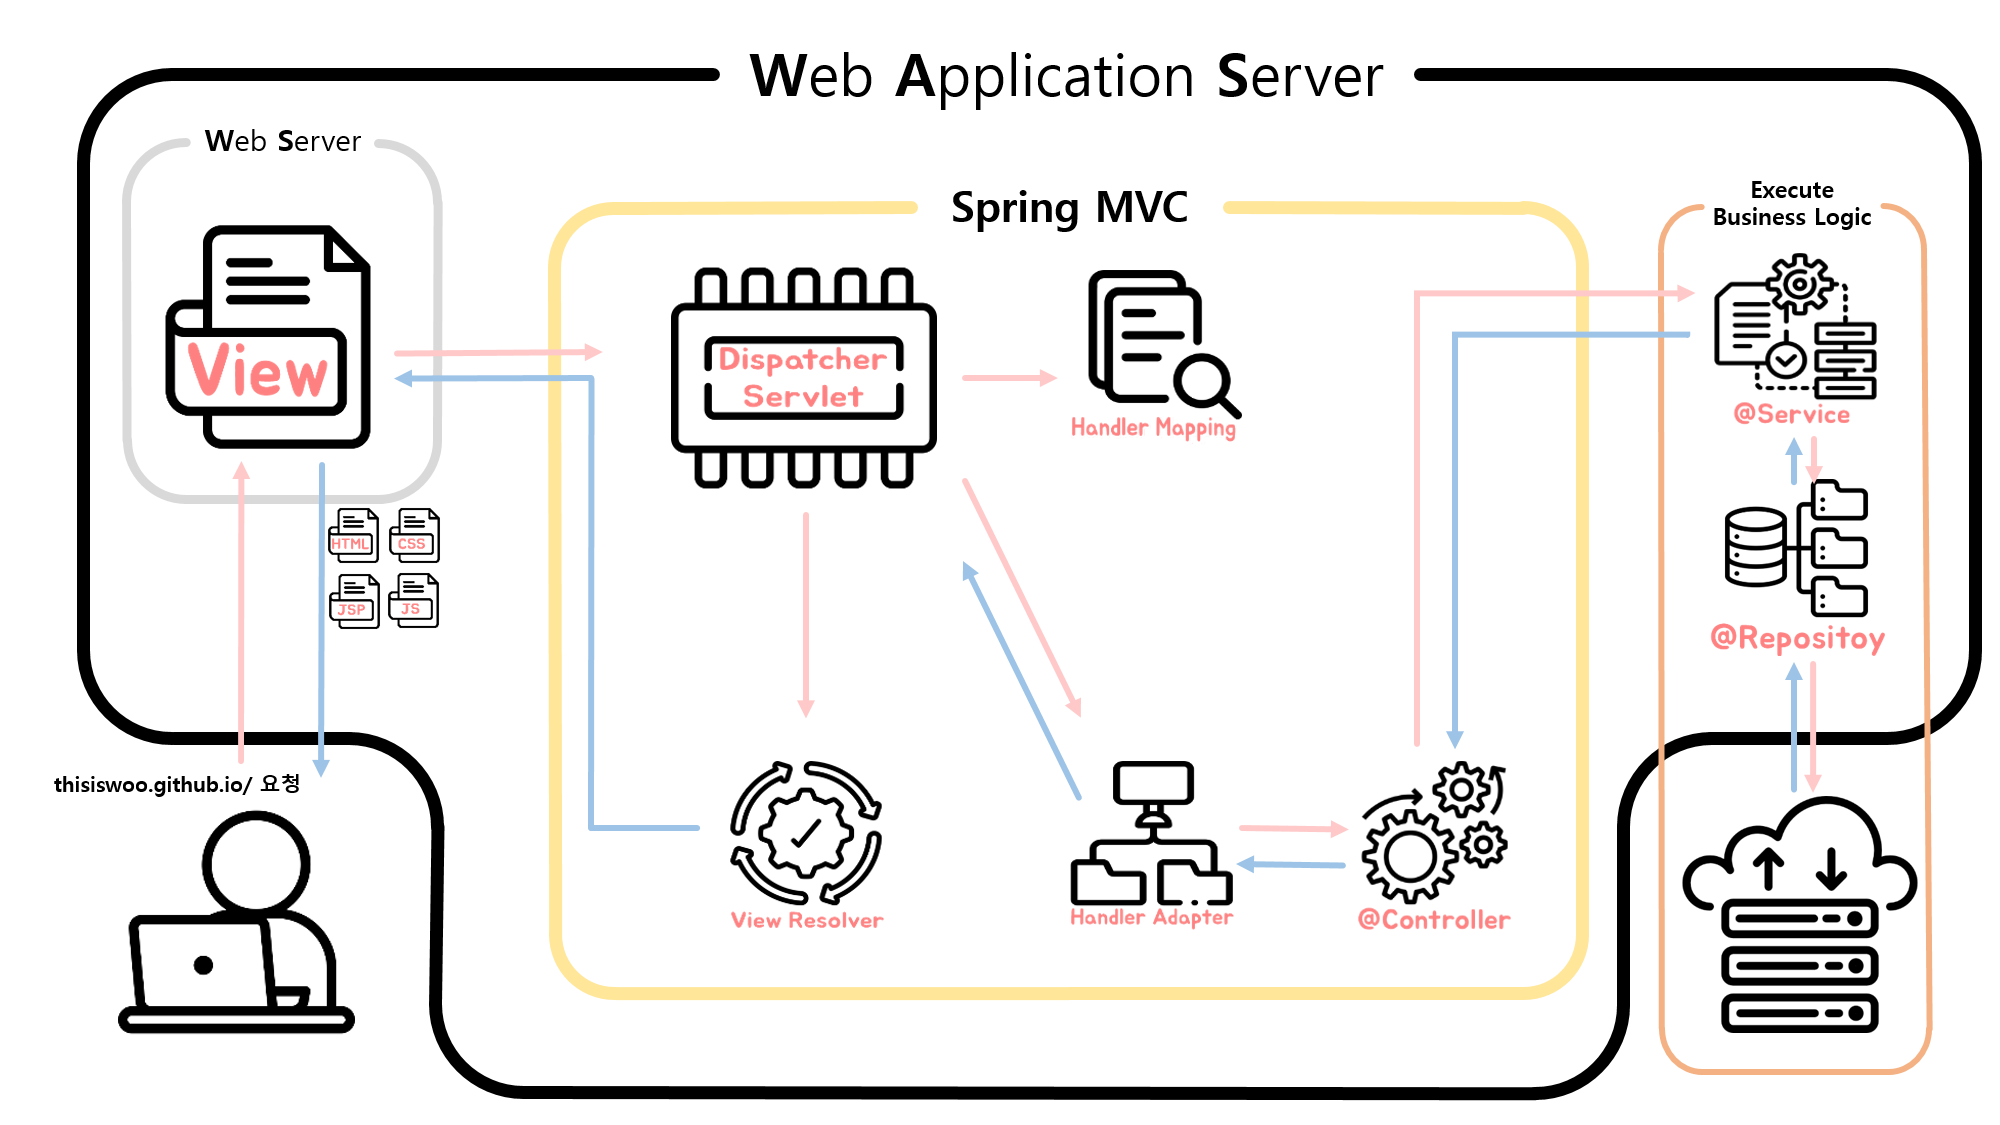
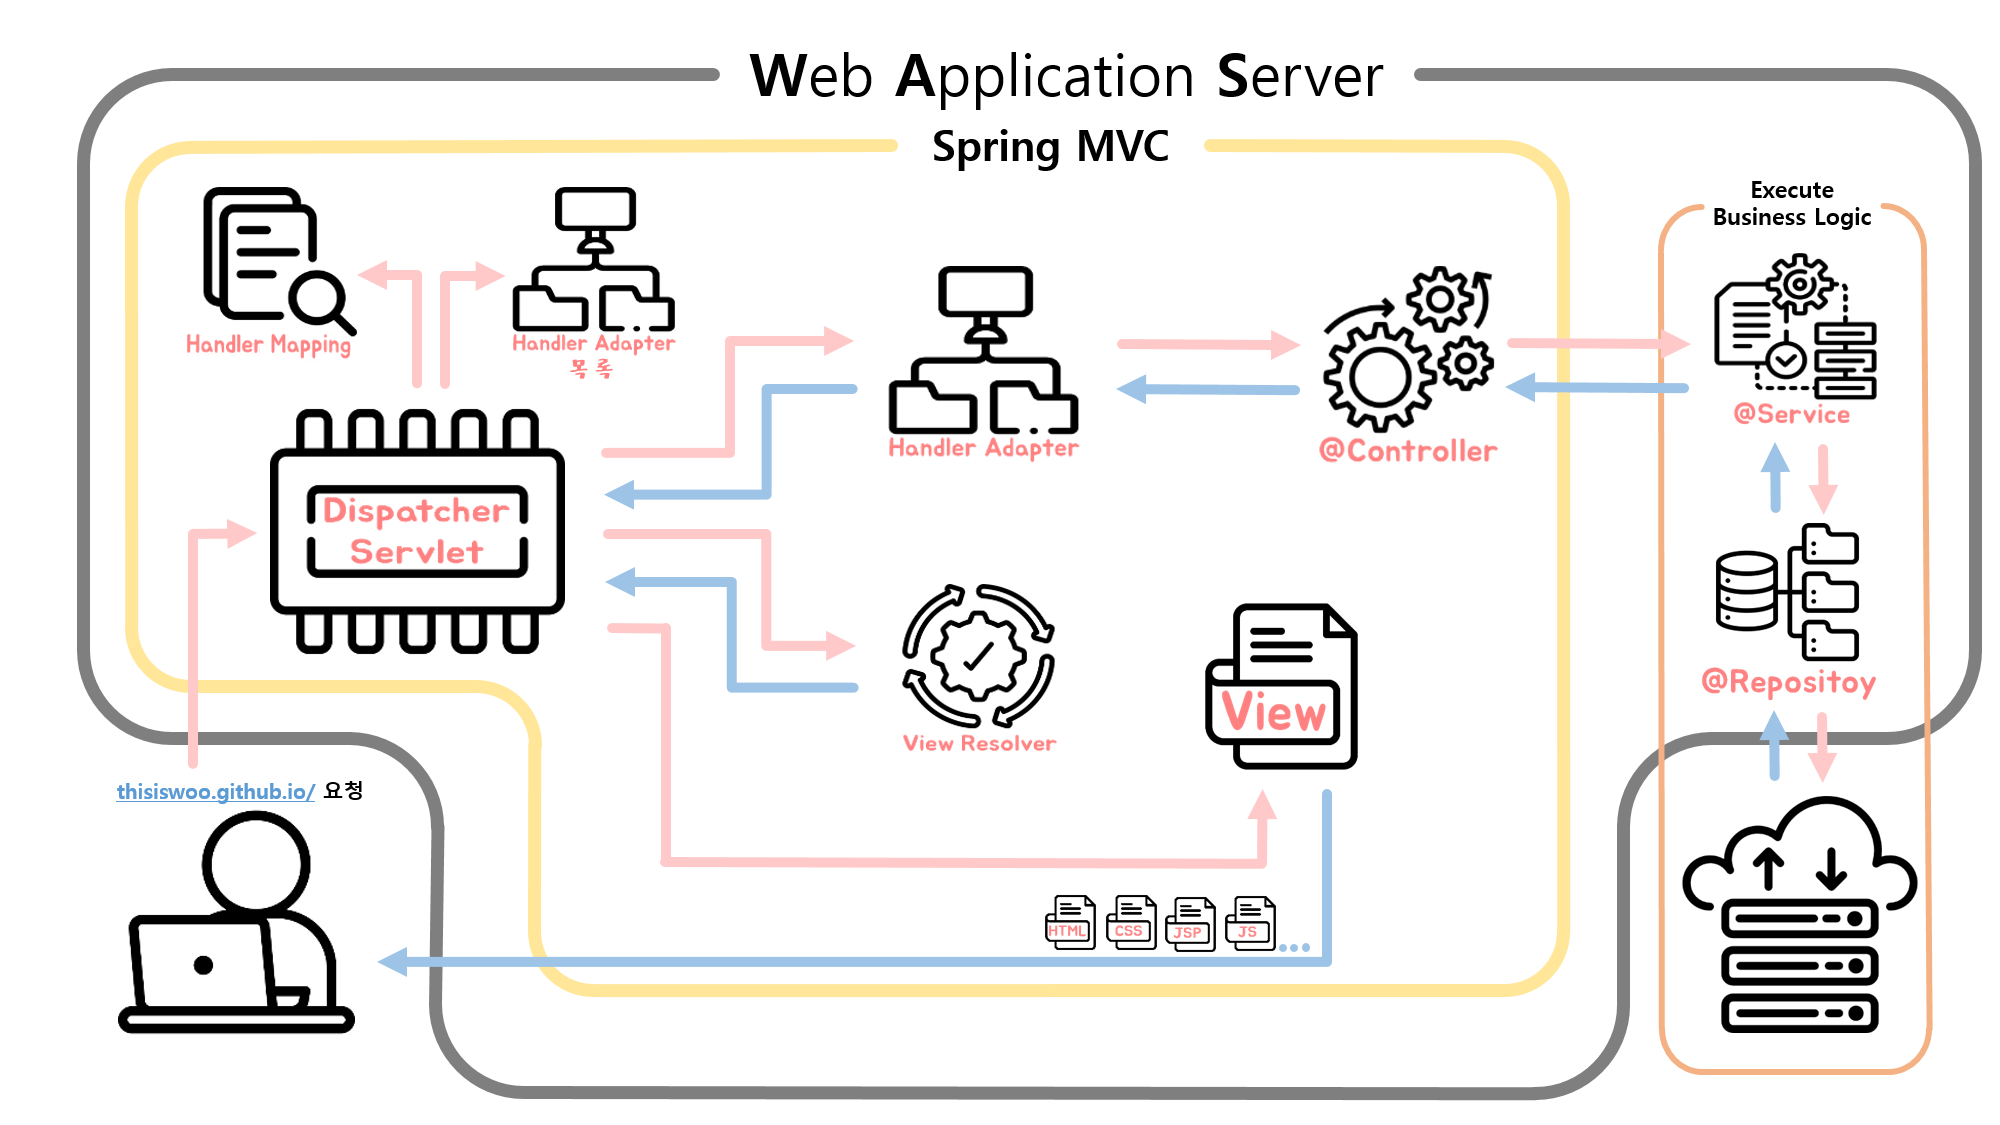
Spring Security 내부 동작 과정 작업 중

Changed region(s): [[0.031, 0.0622, 0.992, 0.9644], [0.248, 0.9333, 0.806, 0.9956], [0.465, 0.4356, 0.496, 0.4667]]

diff --git a/_posts/development/server/2024-05-31-spring-security-process.md b/_posts/development/server/2024-05-31-spring-security-process.md
@@ -17,26 +17,50 @@ image:
 Spring Security 내부 동작 과정을 요약한 이미지
 {:.figcaption}
 
+- Spring Security 내부 동작 과정을 알기 위해선 <span style="color:#ff8080">**Spring MVC의 기본 동작 원리**</span>를 알고 있어야 한다.
+- 우선, 아래 Spring MVC 내부 동작 과정에 대해 간략하게 알아보자.
+
+[//]: # (Continue with [[Spring] Spring MVC]&#40;./2023-07-04-spring-mvc-pattern.md&#41;{:.heading.flip-title})
+[//]: # ({:.read-more})
 
 ## Spring MVC 요청 과정
 ![](/assets/img/development/server/2024-05-31_spring_security_process/springmvc_architechture.png){:.centered width="100%"}
 Spring MVC 요약한 이미지
 {:.figcaption}
 
-간략하게 Spring MVC 동작 과정을 살펴보자.
-1. 사용자(client)가 웹 브라우저를 통해 특정 URL로 <span style="color:#ff8080">**요청**</span>을 보낸다.
-2. Spring의 모든 요청은 `FrontController` 역할을 하는 `DispatcherServlet`에 의해 처음 받아지게 된다.
-3. 이때, `DispatcherServlet`은 `HandlerMapping`에 매핑 정보를 찾게 되는데, 요청 URL과 일치하는 <span style="color:#ff8080">**핸들러**</span>를 찾는 역할을 수행한다.
-4. 찾은 매핑 정보를 통해 `DispatcherServlet`은 `HandlerAdaptor`를 통해 각 핸들러 타입(`@Controller`의 `@RequestMapping`)을 <span style="color:#ff8080">**연결**</span>해 주는 역할을 하게 된다.
-5. 그렇게 비즈니스 로직을 거쳐 응답받은 `DispatcherServlet`은 `ViewResolver` 를 통해 `Model` 객체를 반환하여 `View`에 전달하게 된다.
-6. 사용자(`client`)는 응답받은 페이지와 데이터를 보게 된다.
+[//]: # (사용자는 웹 브라우저를 통해 특정 URL로 요청을 보낸다. 그 요청에는 **HTTP 메서드**, **헤더 정보**, **본문 데이터 등**이 포함될 수 있다.)
+
+[//]: # (요청은 웹 서버에 도착하고, DispatcherServlet에 의해 처리됩니다.)
+
+[//]: # (DispatcherServlet은 요청 URL, HTTP 메서드, 요청 헤더 정보 등을 분석하여 요청을 처리할 수 있는 핸들러를 HandlerMapping에 검색합니다.)
+
+[//]: # (HandlerMapping은 요청에 맞는 핸들러를 찾고, 해당 핸들러를 DispatcherServlet에 반환합니다.)
+
+[//]: # (DispatcherServlet은 핸들러의 타입을 기반으로 HandlerAdapter를 선택하고, HandlerAdapter에게 핸들러를 전달합니다.)
+
+[//]: # ()
+[//]: # (HandlerAdapter는 핸들러를 실행하고, 핸들러는 비즈니스 로직을 수행하여 Model 객체를 생성합니다.)
+
+[//]: # (Model 객체는 핸들러의 실행 결과를 담고 있으며, View에서 사용될 데이터를 포함합니다.)
+
+[//]: # (DispatcherServlet은 ViewResolver에게 Model 객체를 전달하고, ViewResolver는 Model 객체에 담겨있는 데이터를 기반으로 View를 생성합니다.)
+
+[//]: # (View는 템플릿 엔진을 사용하여 Model 객체의 데이터를 HTML 코드로 변환합니다.)
+
+[//]: # (DispatcherServlet은 생성된 HTML 코드를 사용자에게 HTTP 응답으로 전송합니다.)
+
+
+1. 사용자는 웹 브라우저를 통해 <span style="color:#ff8080">**특정 `URL`로 요청**</span>을 보낸다. 그 요청에는 **HTTP 메서드**, **헤더 정보**, **본문 데이터 등**이 포함될 수 있다.
+2. 모든 요청은 Spring의 웹 서버에 도착하고, `FrontController` 역할을 하는 <span style="color:#ff8080">**`DispatcherServlet`**</span>에 의해 처리가 되는데, **요청 URL**, **HTTP 메서드**, **요청 헤더 정보 등**을 분석하여 요청을 처리할 수 있는 핸들러를 <span style="color:#ff8080">**`HandlerMapping`**</span>에 조회한다.
+3. <span style="color:#ff8080">**`HandlerAdapter` 목록**</span>에서 요청에 맞는 <span style="color:#ff8080">**핸들러**</span>를 조회한다.
+4. `DispatcherServlet`은 조회한 핸들러의 타입을 기반으로 <span style="color:#ff8080">**`HandlerAdapter`**</span>를 통해서 핸들러를 실행한다.
+5. 핸들러(`@Controller`, `@RestController`의 `@RequestMapping`, `@GetMapping`, `@PostMapping` 등)는 비즈니스 로직을 거쳐 응답받은 데이터를 `ModelAndView` 객체를 생성하여 `DispatcherServlet`에 반환한다.
+6. `DispatcherServlet`은 <span style="color:#ff8080">**`ViewResolver`**</span>를 찾고 다시 `DispatcherServlet`에 <span style="color:#ff8080">**`View` 객체(`JSP`, `Thymeleaf` 등)를 생성**</span> 후 `DispatcherServlet`에 반환한다. 
+6. `View` 객체를 받은 `DispatcherServlet`은 <span style="color:#ff8080">**렌더링**</span>된 HTML 코드를 사용자(`Client`)에게 <span style="color:#ff8080">**`HTTP 응답`**</span>으로 전송하게 된다. 
 
 위 내용이 기본적인 Spring MVC의 요청 흐름이다.<br/>
 **그렇다면, 요청에 문제가 있거나, 권한이 없는 요청 등이 중요한 데이터에 접근하려 한다면 어떻게 처리해야 할까?**<br/>
 이 문제를 **Srping Security가 해결**할 수 있게 되었다.<br/>  
-
-[//]: # (Continue with [[Spring] Spring MVC]&#40;./2023-07-04-spring-mvc-pattern.md&#41;{:.heading.flip-title})
-[//]: # ({:.read-more})
 
 ## Spring Securit 의 기본 동작 원리와 흐름
 ![](/assets/img/development/server/2024-05-31_spring_security_process/springsecurity_architechture.png){:.centered width="100%"}
@@ -83,6 +107,7 @@ public interface SecurityFilterChain {
 
 
 # Reference
+- [Security MVC](https://docs.spring.io/spring-framework/reference/web/webmvc.html){:target="_blank"}
 - [Security Filters](https://docs.spring.io/spring-security/reference/servlet/architecture.html#servlet-security-filters){:target="_blank"}
 - [DelegatingFilterProxy](https://docs.spring.io/spring-security/reference/servlet/architecture.html#servlet-delegatingfilterproxy){:target="_blank"}
 - [Spring Security Milestones](https://github.com/spring-projects/spring-security/milestones){:target="_blank"}
